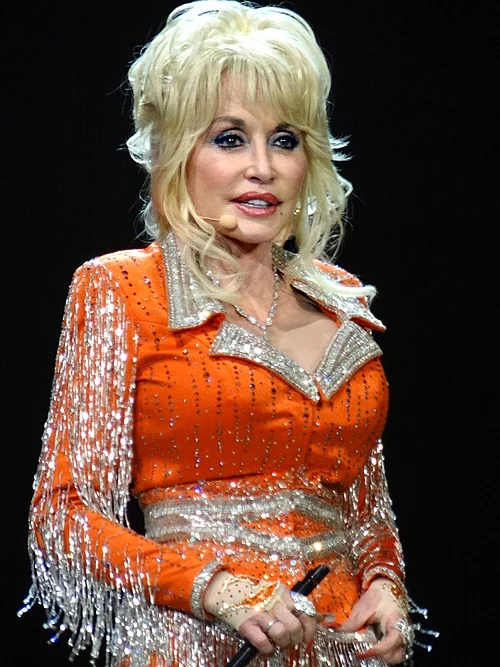
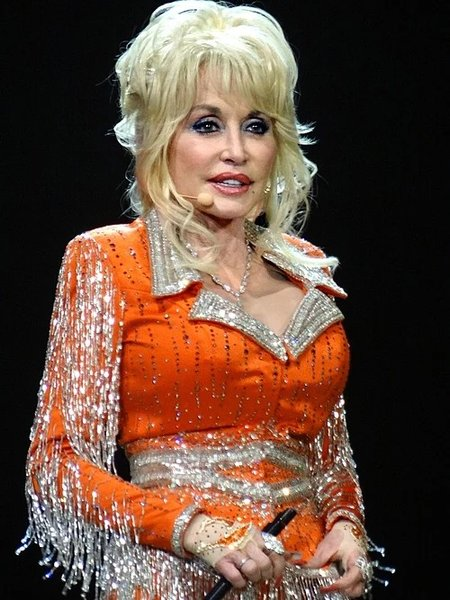
HolstonHouse: Updates and fixes

diff --git a/aperfectday/HolstonHouse/index.html b/aperfectday/HolstonHouse/index.html
@@ -514,30 +514,29 @@ function clearAllSaved() {
       window._lastDwellMins = dwellMins;
       var html = '';
       if (_at) {
-        html += (_at.headerImage
-            ? '<div class="trip-day-banner" style="position:relative;line-height:0;">'
-              + '<img src="' + _ib + _at.headerImage + '" alt="" aria-hidden="true" loading="lazy" '
-              + 'onerror="var w=this.closest(\'.trip-day-banner\'); if(w) w.style.display=\'none\';" '
-              + 'style="width:100%;height:168px;object-fit:cover;object-position:center 20%;display:block;">'
-              + (_at.headerCredit
-                  ? '<span style="position:absolute;right:6px;bottom:6px;line-height:1.3;'
-                    + 'background:rgba(0,0,0,0.55);color:#fff;font-size:0.58rem;'
-                    + 'padding:2px 6px;border-radius:4px;">'
-                    + (_at.headerCreditUrl
-                        ? '<a href="' + _at.headerCreditUrl + '" target="_blank" rel="noopener" '
-                          + 'style="color:#fff;text-decoration:none;">' + _at.headerCredit + '</a>'
-                        : _at.headerCredit)
-                    + '</span>'
-                  : '')
-              + '</div>'
-            : '')
-          + '<div class="trip-day-header" style="padding:11px 13px 10px;'
-          + 'border-bottom:1px solid rgba(0,0,0,0.06);">'
-          + '<div style="font-size:1.02rem;font-weight:700;color:#31261d;line-height:1.2;">'
+        html += '<div class="trip-day-header" style="display:flex;gap:13px;align-items:flex-start;'
+          + 'padding:13px 13px 12px;border-bottom:1px solid rgba(0,0,0,0.06);">'
+          + (_at.headerImage
+              ? '<img src="' + _ib + _at.headerImage + '" alt="" aria-hidden="true" loading="lazy" '
+                + 'onerror="this.remove();" '
+                + 'style="width:98px;height:124px;flex-shrink:0;object-fit:cover;'
+                + 'object-position:center 12%;border-radius:10px;display:block;'
+                + 'box-shadow:0 2px 8px rgba(49,38,29,0.22);">'
+              : '')
+          + '<div style="min-width:0;padding-top:2px;">'
+          + '<div style="font-size:1.08rem;font-weight:700;color:#31261d;line-height:1.2;">'
           + (_at.name || '') + '</div>'
-          + (_at.note ? '<div style="font-size:0.68rem;color:#8a8079;line-height:1.4;margin-top:4px;">'
+          + (_at.note ? '<div style="font-size:0.7rem;color:#8a8079;line-height:1.42;margin-top:5px;">'
               + _at.note + '</div>' : '')
-          + '</div>';
+          + (_at.headerCredit
+              ? '<div style="font-size:0.56rem;color:#a9a29b;line-height:1.3;margin-top:6px;">'
+                + (_at.headerCreditUrl
+                    ? '<a href="' + _at.headerCreditUrl + '" target="_blank" rel="noopener" '
+                      + 'style="color:inherit;text-decoration:none;">' + _at.headerCredit + '</a>'
+                    : _at.headerCredit)
+                + '</div>'
+              : '')
+          + '</div></div>';
       }
       html +=
         '<div class="saved-stats-bar" style="display:flex;flex-wrap:wrap"><span>'+pl.length+(pl.length===1?' stop':' stops')+'</span>'+

diff --git a/aperfectday/HolstonHouse/sw.js b/aperfectday/HolstonHouse/sw.js
@@ -3,7 +3,7 @@
 // If a resource is in cache, return it IMMEDIATELY — no network request.
 // This prevents the 60-second hang when offline.
 
-var SHELL_CACHE = 'apd-shell-v67';
+var SHELL_CACHE = 'apd-shell-v68';
 var TILE_CACHE  = 'apd-tiles-v1';
 
 var SHELL_FILES = [
